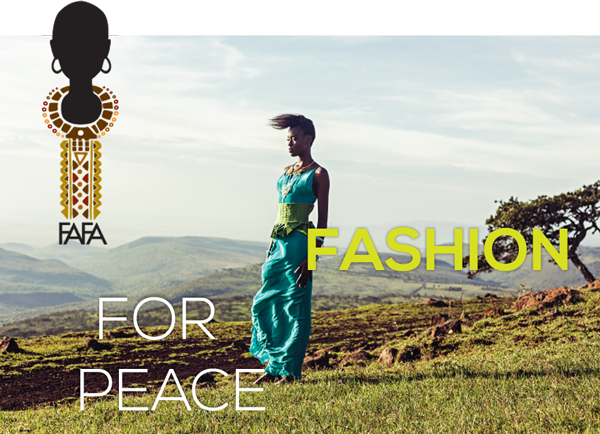
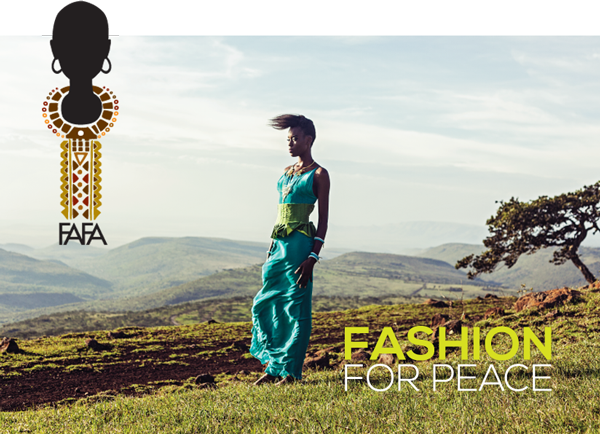
added templates for the pepe mail sale

diff --git a/fafa/sale.html b/fafa/sale.html
@@ -1,0 +1,74 @@
+<html lang="en">
+<head>
+	<meta http-equiv="Content-Type" content="text/html; charset=utf-8" />
+	<meta name="viewport" content="width=device-width, initial-scale=1.0"/>
+	<title>FaFa Creative Fashion Fair</title>
+    <!--[if gte mso 9]>
+    <style type="text/css">
+        .body{background: #d7df21;}
+    </style>
+    <![endif]-->
+</head>
+<body style="margin: 0; padding: 0;background-color: #d7df21;font-family: 'Helvetica Neue',Helvetica,Arial,sans-serif;">
+<table cellpadding="0" cellspacing="0" border="0" align="center" width="100%">
+    <tr>
+        <td align="center" style="padding: 15px 0px 0px;background:#d7df21;">
+            <table cellpadding="0" cellspacing="0" border="0" align="center" width="600" class="header">
+                <tr>
+                    <td align="left" valign="top" width="300"></td>
+                    <td align="right" width="300" valign="top">
+                        <a href="http://www.facebook.com/share.php?u={{components.facebook}}&amp;t={{message.message_subject}}" style="color:#1d1e04;font-weight: bold;text-decoration: none;" id="fb-link"><img src="images/fb.png" style="padding-right: 5px" alt="Like" /></a>
+                        <a href="http://twitter.com/home?status={{components.twitter}}" style="color:#1d1e04;font-weight: bold;text-decoration: none;" id="tweet-link"><img src="images/tweet.png" style="padding-right: 5px" alt="Tweet" /></a>
+                        <a href="{{components.forward}}" style="color:#1d1e04;font-weight: bold;text-decoration: none;" id="forward-link"><img src="images/forward.png" style="padding-right: 5px" alt="Forward" /></a>
+                    </td>
+                </tr>
+            </table>
+        </td>
+    </tr>
+    <tr>
+        <td align="center" style="padding: 0px; background: #d7df21;">
+            <!--[if gte mso 9]>
+            <td align="center" style="padding: 0px; background: none;">
+            <![endif]-->
+            <table cellpadding="0" cellspacing="0" border="0" align="center" width="600" style="font-family: Georgia, Times, serif;" class="header">
+                <tr>
+                    <td>
+                        <img src="images/banner.png" alt="FaFa Fashion for Peace" />
+                    </td>
+                </tr>
+            </table><!-- header-->
+        </td>
+    </tr>
+    <tr>
+        <td align="center" style="background: #d7df21;">
+            <table cellpadding="0" cellspacing="0" border="0" align="center" width="600" style="font-family: 'Helvetica Neue',Helvetica,Arial,sans-serif; background: #ffffff;">
+                <tr>
+                    <td style="width: 300px;padding: 15px;color:#653600;">
+                        <!--<img src="images/ann.jpg" style="width:100%;max-width: 100%;padding: 20px 0px" />-->
+                        <!--<h1>49</h1>-->
+                        <h1 style="margin-top:0px;margin-bottom:0px;">49</h1>
+                        <h3 style="font-weight:100;margin-top:0px;">Discounted tickets remaining</h3>
+                    </td>
+                    <td style="width: 300px;padding:25px;color:#653600;font-size: 14px;" valign="middle">
+
+                        <h2 style="font-weight:100;margin-bottom:0px;">2nd November</h2>
+                        <h1 style="margin-top:0px;margin-bottom:0px;">FASHION</h1>
+                        <h1 style="margin-top:0px;margin-bottom:0px;">FOR PEACE</h1>
+                        <h3 style="font-weight:100;margin-top:0px;">Saturday Night Gala - Sarova Stanley</h3>
+                    </td>
+                </tr>
+            </table>
+        </td>
+    </tr>
+    <tr>
+        <td align="center" style="padding: 0; background: #d7df21;">
+            <table cellpadding="0" cellspacing="0" border="0" align="center" width="600" style="background: #ffffff;" class="header">
+                <tr>
+                    <td colspan="2"><img src="images/bottom_pattern.png" /></td>
+                </tr>
+            </table>
+        </td>
+    </tr>
+</table>
+</body>
+</html>
